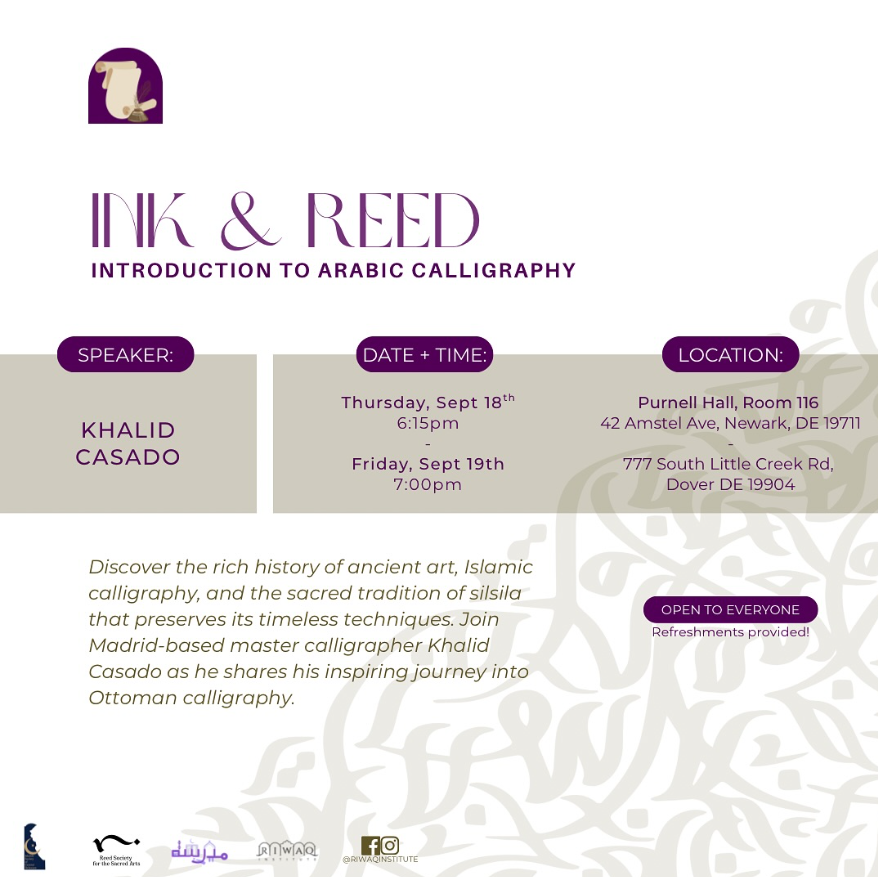
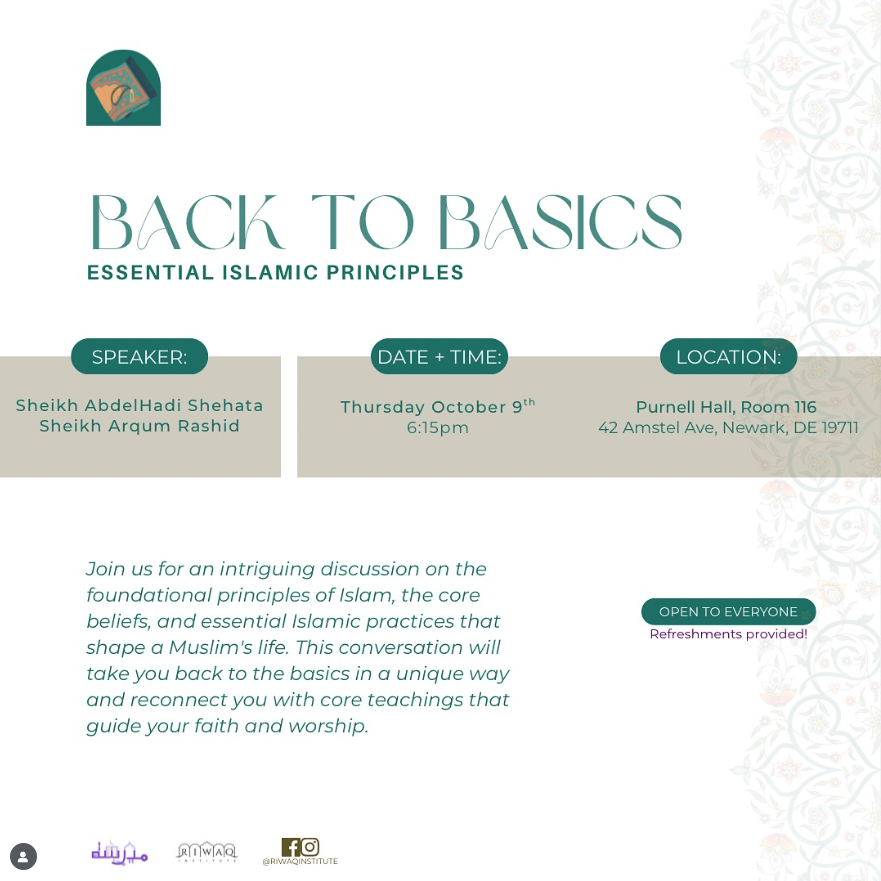
updated october 2025

diff --git a/index.html b/index.html
@@ -208,7 +208,7 @@
       <h1 class="animate">Achievements</h1>
       <div class="achievements-numbers">
         <div class="achievement animate">
-          <div class="number">15</div>
+          <div class="number">22</div>
           <p class="description">Lectures held</p>
         </div>
         <div class="achievement animate">
@@ -216,7 +216,7 @@
           <p class="description">Raised for fundraisers</p>
         </div>
         <div class="achievement animate">
-          <div class="number">5</div>
+          <div class="number">7</div>
           <p class="description">Dawah tables held</p>
         </div>
         <div class="achievement animate">
